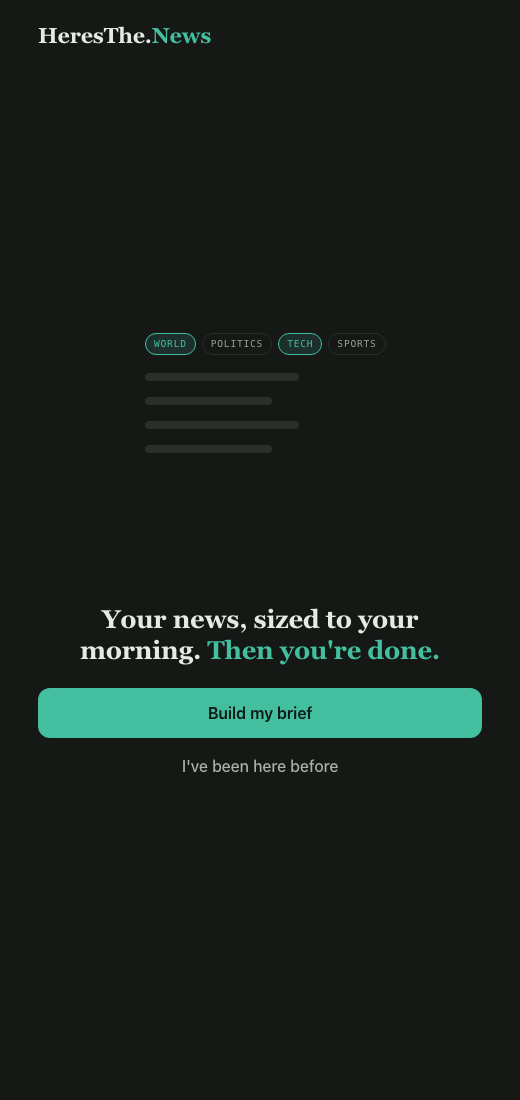
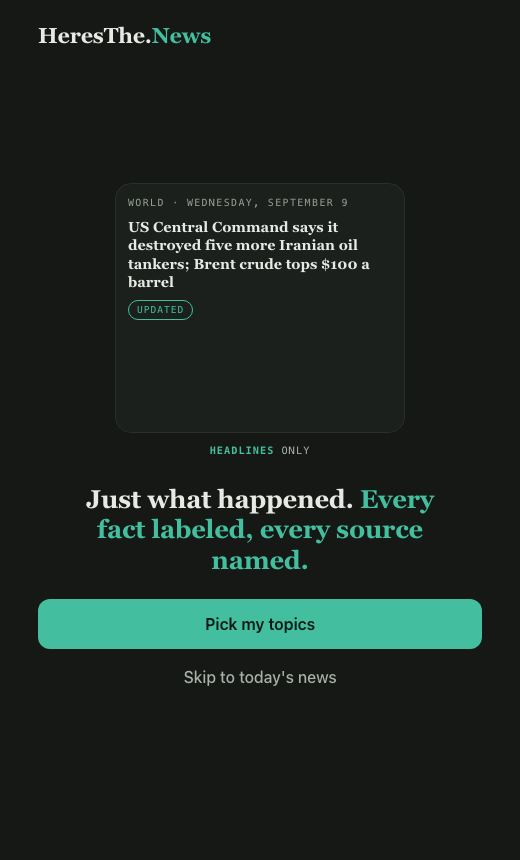
Screen 3 becomes 'How do you want your news to look?' with a live example story
Replaces the invented time picker with a real, shippable preference: a story
marked up like the live site (what changed, why it matters, labeled facts,
named sources) re-renders in place as the reader picks Headlines, Compact or
Detailed. Landing demo now cycles the same story through the three styles and
scrolls to the labeled facts and sources. Topics screen uses the site's own
wording ('What news do you want to see?', 'Show me everything').

diff --git a/style.css b/style.css
@@ -42,49 +42,18 @@ p{margin:0 0 14px;color:var(--ink-2)}
 .hero h1 em{font-style:normal;color:var(--green)}
 .actions{width:100%;display:grid;gap:6px}
 
-/* the demo: a mock screen that gets chosen, sized, checked, and finished (10s loop) */
-.demo{width:270px;font-family:var(--mono)}
-.screen{position:relative;height:236px;padding:12px;border:1px solid var(--line);border-radius:16px;background:var(--card);overflow:hidden;text-align:left}
-.demo .chips{display:flex;gap:5px;margin-bottom:7px}
-.demo .chip{position:relative;font-size:.56rem;letter-spacing:.08em;text-transform:uppercase;padding:3px 7px;border-radius:999px;border:1px solid var(--line);color:var(--ink-3);animation:10s infinite}
-.demo .chip.p1{animation-name:pick1}
-.demo .chip.p2{animation-name:pick2}
-.demo .chip.pick::after{content:"";position:absolute;inset:-4px;border-radius:999px;border:2px solid var(--green);opacity:0;animation:10s infinite}
-.demo .chip.p1::after{animation-name:tap1}
-.demo .chip.p2::after{animation-name:tap2}
-.demo .chips.time{animation:timeRow 10s infinite}
-.demo .rows{margin-top:4px}
-.demo .row{display:flex;align-items:center;gap:6px;height:22px;overflow:hidden;animation:10s infinite}
-.demo .row.d1{animation-name:drop1}
-.demo .row.d2{animation-name:drop2}
-.demo .tag{font-size:.46rem;letter-spacing:.06em;text-transform:uppercase;color:var(--ink-3);width:42px;flex:none}
-.demo .hl{font-family:var(--serif);font-size:.72rem;color:var(--ink);flex:1;white-space:nowrap;overflow:hidden;text-overflow:ellipsis}
-.demo .ok{font-size:.52rem;letter-spacing:.06em;color:var(--green);white-space:nowrap;opacity:0;max-width:0;overflow:hidden;animation:ok 10s infinite}
-.demo .stamp{position:absolute;left:50%;top:70%;transform:translate(-50%,-50%) scale(.6);opacity:0;font-size:.8rem;letter-spacing:.14em;text-transform:uppercase;color:var(--green-ink);background:var(--green);padding:8px 16px;border-radius:999px;animation:stamp 10s infinite}
-.demo .caps{position:relative;height:20px;margin-top:10px}
-.demo .cap{position:absolute;left:0;right:0;text-align:center;font-size:.64rem;letter-spacing:.1em;text-transform:uppercase;color:var(--ink-2);opacity:0;animation:10s infinite}
-.demo .c1{animation-name:cap1}.demo .c2{animation-name:cap2}.demo .c3{animation-name:cap3}.demo .c4{animation-name:cap4}
-@keyframes pick1{0%,12%{border-color:var(--line);color:var(--ink-3);background:none}16%,92%{border-color:var(--green);color:var(--green);background:var(--green-tint)}97%,100%{border-color:var(--line);color:var(--ink-3);background:none}}
-@keyframes pick2{0%,34%{border-color:var(--line);color:var(--ink-3);background:none}38%,92%{border-color:var(--green);color:var(--green);background:var(--green-tint)}97%,100%{border-color:var(--line);color:var(--ink-3);background:none}}
-@keyframes tap1{0%,10%{opacity:0;transform:scale(.7)}13%{opacity:1;transform:scale(1)}20%,100%{opacity:0;transform:scale(1.4)}}
-@keyframes tap2{0%,32%{opacity:0;transform:scale(.7)}35%{opacity:1;transform:scale(1)}42%,100%{opacity:0;transform:scale(1.4)}}
-@keyframes timeRow{0%,24%{opacity:0;height:0;margin-bottom:0}30%,92%{opacity:1;height:20px;margin-bottom:7px}97%,100%{opacity:0;height:0;margin-bottom:0}}
-@keyframes drop1{0%,16%{height:22px;opacity:1}24%,92%{height:0;opacity:0}97%,100%{height:22px;opacity:1}}
-@keyframes drop2{0%,38%{height:22px;opacity:1}46%,92%{height:0;opacity:0}97%,100%{height:22px;opacity:1}}
-@keyframes ok{0%,50%{opacity:0;max-width:0}56%,92%{opacity:1;max-width:80px}97%,100%{opacity:0;max-width:0}}
-@keyframes stamp{0%,70%{opacity:0;transform:translate(-50%,-50%) scale(.6)}76%,92%{opacity:1;transform:translate(-50%,-50%) scale(1)}97%,100%{opacity:0;transform:translate(-50%,-50%) scale(.6)}}
-@keyframes cap1{0%,2%{opacity:0}5%,24%{opacity:1}28%,100%{opacity:0}}
-@keyframes cap2{0%,28%{opacity:0}31%,46%{opacity:1}50%,100%{opacity:0}}
-@keyframes cap3{0%,50%{opacity:0}53%,68%{opacity:1}72%,100%{opacity:0}}
-@keyframes cap4{0%,72%{opacity:0}75%,92%{opacity:1}96%,100%{opacity:0}}
-@media (prefers-reduced-motion:reduce){
-  .demo *{animation:none!important}
-  .demo .chip.pick{border-color:var(--green);color:var(--green);background:var(--green-tint)}
-  .demo .chips.time{opacity:1;height:20px;margin-bottom:7px}
-  .demo .row.d1,.demo .row.d2{display:none}
-  .demo .ok{opacity:1;max-width:80px}
-  .demo .cap.c3{opacity:1}
-}
+/* the demo: the real story card, cycling through the three reading styles */
+.demo{width:290px;text-align:left}
+.demo .screen{position:relative;height:250px;padding:12px 12px 0;border:1px solid var(--line);border-radius:16px;background:var(--card);overflow:hidden}
+.demo .story-card{font-size:.72rem;border:0;padding:0;margin:0;background:none;transition:transform 1.1s ease}
+.demo .scroll-1 .story-card{transform:translateY(-215px)}
+.demo .scroll-2 .story-card{transform:translateY(-395px)}
+.demo .story-card .headline{font-size:.9rem}
+.demo .story-card .impact,.demo .story-card .fact-text{font-size:.66rem}
+.demo .story-card .corr{font-size:.58rem}
+.demo .screen::after{content:"";position:absolute;left:0;right:0;bottom:0;height:40px;background:linear-gradient(to bottom,transparent,var(--card))}
+.demo .caps{height:20px;margin-top:10px;text-align:center;font-family:var(--mono);font-size:.64rem;letter-spacing:.1em;text-transform:uppercase;color:var(--ink-2)}
+.demo .caps b{color:var(--green);font-weight:600}
 
 /* ---------- topic list ---------- */
 .topics{list-style:none;margin:0 0 12px;padding:0;border:1px solid var(--line);border-radius:14px;overflow:hidden;background:var(--card)}
@@ -102,25 +71,44 @@ p{margin:0 0 14px;color:var(--ink-2)}
 .topics input:checked ~ .name{color:var(--green)}
 .sticky{position:sticky;bottom:0;padding:10px 0 4px;background:linear-gradient(to top,var(--paper) 70%,transparent)}
 
-/* ---------- time options ---------- */
-.options{display:grid;gap:8px;margin:0 0 22px}
-.opt{display:flex;align-items:center;justify-content:space-between;gap:12px;padding:13px 16px;border:1px solid var(--line);border-radius:12px;background:var(--card);cursor:pointer}
-.opt input{position:absolute;opacity:0;pointer-events:none}
-.opt .t{font-weight:600}
-.opt .cost{font-family:var(--mono);font-size:.72rem;color:var(--ink-3);letter-spacing:.06em;white-space:nowrap}
-.opt.on{border-color:var(--green);background:var(--green-tint)}
-.opt.on .t,.opt.on .cost{color:var(--green)}
 
-/* ---------- brief ---------- */
-.section{margin:18px 0 4px}
-.story{background:var(--card);border:1px solid var(--line);border-radius:12px;padding:12px 14px;margin-bottom:8px}
-.story .hd{font-family:var(--serif);font-size:1rem;line-height:1.3;margin:0 0 8px;font-weight:600;color:var(--ink)}
-.story .meta{display:flex;gap:8px;align-items:center;flex-wrap:wrap}
-.pill{font-family:var(--mono);font-size:.62rem;letter-spacing:.1em;text-transform:uppercase;padding:3px 8px;border-radius:999px;border:1px solid var(--line);color:var(--ink-2)}
-.pill.src{border-color:var(--green);color:var(--green)}
-.pill.dev{border-color:var(--gold);color:var(--gold)}
-.done-card{margin-top:24px;padding:24px 18px;border:1px dashed var(--green);border-radius:14px;text-align:center;background:var(--green-tint)}
-.done-card h2{color:var(--green);margin-bottom:4px}
-.done-card p{margin-bottom:10px}
-.readbar{position:sticky;bottom:0;margin-top:auto;background:var(--paper);border-top:1px solid var(--line);padding:10px 0 4px;font-family:var(--mono);font-size:.7rem;letter-spacing:.08em;text-transform:uppercase;color:var(--ink-2);display:flex;justify-content:space-between;align-items:center}
-.readbar b{color:var(--green);font-weight:600}
+/* ---------- the story card (mirrors the live site's markup) ---------- */
+.story-card{background:var(--card);border:1px solid var(--line);border-radius:14px;padding:16px 16px 6px;margin-bottom:12px}
+.story-card .kicker{font-family:var(--mono);font-size:.62rem;letter-spacing:.14em;text-transform:uppercase;color:var(--ink-3);margin:0 0 8px}
+.story-card .headline{font-family:var(--serif);font-size:1.15rem;line-height:1.28;font-weight:600;margin:0 0 8px;color:var(--ink)}
+.story-card .sum-meta{display:flex;gap:6px;flex-wrap:wrap;margin-bottom:10px}
+.chip{display:inline-block;font-family:var(--mono);font-size:.6rem;letter-spacing:.1em;text-transform:uppercase;padding:2px 8px;border-radius:999px;border:1px solid var(--line);color:var(--ink-2);white-space:nowrap}
+.chip-upd{border-color:var(--green);color:var(--green)}
+.chip-dev{border-color:var(--gold);color:var(--gold)}
+.status-verified{border-color:var(--green);color:var(--green)}
+.status-reported{border-color:var(--ink-3);color:var(--ink-2)}
+.status-disputed{border-color:#D07A50;color:#D07A50}
+.status-developing{border-color:var(--gold);color:var(--gold)}
+.update-note{font-size:.85rem;color:var(--ink-2);margin:0 0 10px}
+.update-note .un-k,.impact-label,.facts-head{font-family:var(--mono);font-size:.62rem;letter-spacing:.14em;text-transform:uppercase;color:var(--ink-3)}
+.update-note .un-k{margin-right:6px}
+.impact{margin:0 0 12px;color:var(--ink-2);font-size:.92rem}
+.impact-label{display:block;margin-bottom:3px}
+.facts-head{display:flex;align-items:center;gap:8px;margin:0 0 8px}
+.fcount{color:var(--ink-2);letter-spacing:.06em}
+.fcount i{font-style:normal;margin-right:3px}
+.fc-v{color:var(--green)}.fc-d{color:#D07A50}
+.facts{list-style:none;margin:0;padding:0}
+.fact{display:grid;grid-template-columns:auto 1fr;gap:8px;align-items:start;padding:8px 0;border-top:1px solid var(--line)}
+.fact .fact-text{font-size:.9rem;color:var(--ink)}
+.fact .corr{display:block;font-size:.78rem;color:var(--ink-3);margin-top:4px}
+.coverage{display:block;font-family:var(--mono);font-size:.62rem;letter-spacing:.12em;text-transform:uppercase;color:var(--green);text-decoration:none;padding:10px 0 8px}
+
+/* reading styles: what each one shows */
+.mode-headlines .update-note,.mode-headlines .impact-wrap,.mode-headlines .facts-head,.mode-headlines .facts,.mode-headlines .coverage{display:none}
+.mode-compact .update-note,.mode-compact .facts-head,.mode-compact .facts,.mode-compact .coverage{display:none}
+.mode-headlines .story-card,.mode-compact .story-card{padding-bottom:10px}
+
+/* ---------- style picker ---------- */
+.picker{position:sticky;bottom:0;margin-top:auto;padding:10px 0 4px;background:linear-gradient(to top,var(--paper) 78%,transparent)}
+.seg{display:grid;grid-template-columns:repeat(3,1fr);gap:4px;padding:4px;border:1px solid var(--line);border-radius:12px;background:var(--card);margin-bottom:8px}
+.seg label{position:relative;text-align:center;padding:9px 4px;border-radius:9px;cursor:pointer;font-weight:600;font-size:.9rem;color:var(--ink-2)}
+.seg label small{display:block;font-family:var(--mono);font-size:.58rem;letter-spacing:.08em;text-transform:uppercase;color:var(--ink-3);font-weight:400;margin-top:2px}
+.seg input{position:absolute;opacity:0;pointer-events:none}
+.seg label.on{background:var(--green-tint);color:var(--green);box-shadow:inset 0 0 0 1px var(--green)}
+.seg label.on small{color:var(--green)}

diff --git a/index.html b/index.html
@@ -14,41 +14,28 @@
 
   <main class="hero">
     <div class="demo" aria-hidden="true">
-      <div class="screen">
-        <div class="chips">
-          <span class="chip pick p1">World</span><span class="chip">Politics</span><span class="chip pick p1">Tech</span><span class="chip">Sports</span>
-        </div>
-        <div class="chips time">
-          <span class="chip">5 min</span><span class="chip pick p2">10 min</span><span class="chip">All</span>
-        </div>
-        <div class="rows">
-          <div class="row"><span class="tag">World</span><span class="hl">Ceasefire talks resume</span><span class="ok">3 sources ✓</span></div>
-          <div class="row d1"><span class="tag">Politics</span><span class="hl">House passes spending bill</span></div>
-          <div class="row"><span class="tag">Tech</span><span class="hl">Chipmaker unveils 2nm</span><span class="ok">4 sources ✓</span></div>
-          <div class="row d1"><span class="tag">Sports</span><span class="hl">Cup final goes to extra time</span></div>
-          <div class="row"><span class="tag">World</span><span class="hl">Japan quake; no tsunami</span><span class="ok">5 sources ✓</span></div>
-          <div class="row d2"><span class="tag">Tech</span><span class="hl">EU fines app store operator</span></div>
-          <div class="row d1"><span class="tag">Politics</span><span class="hl">Governor signs ballot measure</span></div>
-          <div class="row d2"><span class="tag">Tech</span><span class="hl">Satellite launch scrubbed</span></div>
-          <div class="row d1"><span class="tag">Sports</span><span class="hl">Marathon record falls in Berlin</span></div>
-        </div>
-        <div class="stamp">Done ✓</div>
-      </div>
-      <div class="caps">
-        <span class="cap c1">Pick your topics</span>
-        <span class="cap c2">Pick your time</span>
-        <span class="cap c3">Checked against 3+ sources</span>
-        <span class="cap c4">Then you're done</span>
-      </div>
+      <div class="screen mode-headlines" id="demoScreen"></div>
+      <div class="caps" id="demoCap"></div>
     </div>
 
-    <h1>Your news, sized to your morning. <em>Then you're done.</em></h1>
+    <h1>Just what happened. <em>Every fact labeled, every source named.</em></h1>
 
     <div class="actions">
       <a class="btn btn-primary" href="topics.html">Pick my topics</a>
-      <a class="btn btn-link" href="brief.html">Skip to today's news</a>
+      <a class="btn btn-link" href="style.html">Skip to today's news</a>
     </div>
   </main>
 </div>
+<script src="story.js"></script>
+<script>
+const screen = document.getElementById("demoScreen"), cap = document.getElementById("demoCap");
+screen.innerHTML = STORY_HTML;
+const PHASES = [["headlines","<b>Headlines</b> only"],["compact","<b>Compact</b> · why it matters"],["detailed scroll-1","<b>Detailed</b> · every fact labeled"],["detailed scroll-2","Every source <b>named</b>"]];
+let i = 0;
+function show(){ const [m,c] = PHASES[i]; screen.className = "screen mode-"+m; cap.innerHTML = c; i = (i+1) % PHASES.length; }
+show();
+if (!matchMedia("(prefers-reduced-motion: reduce)").matches) setInterval(show, 2600);
+else { screen.className = "screen mode-detailed scroll-1"; cap.innerHTML = "Every fact labeled, every source named"; }
+</script>
 </body>
 </html>

diff --git a/story.js b/story.js
@@ -1,0 +1,18 @@
+// The example story, marked up the same way the live site renders one.
+const STORY_HTML = `
+<article class="story-card">
+  <p class="kicker">World · Wednesday, September 9</p>
+  <h3 class="headline">US Central Command says it destroyed five more Iranian oil tankers; Brent crude tops $100 a barrel</h3>
+  <div class="sum-meta"><span class="chip chip-upd">updated</span></div>
+  <p class="update-note"><span class="un-k">What changed</span>Tankers destroyed 3 → 8; Brent crude tops $100/barrel</p>
+  <div class="impact-wrap"><p class="impact"><span class="impact-label">Why it matters</span>The number of Iranian oil tankers the US says it has destroyed rose from three last weekend to eight after Tuesday's strikes, and Brent crude crossed $100 a barrel on Wednesday for the first time since late July.</p></div>
+  <p class="facts-head">The facts <span class="fcount fc-v"><i>●</i>3 verified</span><span class="fcount"><i>○</i>1 reported</span><span class="fcount fc-d"><i>◐</i>1 disputed</span></p>
+  <ul class="facts">
+    <li class="fact"><span class="chip status-verified">verified</span><span class="fact-text">US Central Command said it destroyed five Iranian oil tankers on Tuesday, Sept. 8, four in the Gulf of Oman and one near Kharg Island, after Iran's Revolutionary Guard twice tried to hit a US Navy warship with missiles.<span class="corr">— U.S. Central Command statement (primary source), reported by UPI and CBS News.</span></span></li>
+    <li class="fact"><span class="chip status-verified">verified</span><span class="fact-text">Iran fired missiles at Muwaffaq Salti Air Base in Jordan. Jordan's military said it intercepted 18 and the other two landed in unpopulated areas, with no casualties.<span class="corr">— Jordan's military statement (primary source), reported by UPI and CBS News.</span></span></li>
+    <li class="fact"><span class="chip status-verified">verified</span><span class="fact-text">Brent crude rose above $100 a barrel on Wednesday morning, Sept. 9, the first time since late July.<span class="corr">— BBC News, CBS News and CNBC each report it independently.</span></span></li>
+    <li class="fact"><span class="chip status-reported">reported</span><span class="fact-text">Iran's Revolutionary Guard Navy warned crews of tankers near ports in Bahrain and Kuwait to leave their vessels.<span class="corr">— Single origin so far: Reuters.</span></span></li>
+    <li class="fact"><span class="chip status-disputed">disputed</span><span class="fact-text">Iran's Revolutionary Guard said its naval forces hit two US warships; CENTCOM says no US warship has been hit.<span class="corr">— Iranian state media (IRNA) vs. U.S. Central Command. Outlets disagree; both accounts shown.</span></span></li>
+  </ul>
+  <a class="coverage" href="#">Read the full coverage →</a>
+</article>`;

diff --git a/style.html b/style.html
@@ -1,0 +1,47 @@
+<!doctype html>
+<html lang="en">
+<head>
+<meta charset="utf-8">
+<meta name="viewport" content="width=device-width,initial-scale=1">
+<title>HeresThe.News — Your style</title>
+<link rel="stylesheet" href="style.css">
+</head>
+<body>
+<div class="app">
+  <header class="masthead">
+    <a class="back" href="index.html" aria-label="Back to start">&#8592;</a>
+    <a class="brand" href="index.html">HeresThe.<em>News</em></a>
+  </header>
+  <div class="progress" aria-label="Step 2 of 2"><span style="width:100%"></span></div>
+
+  <h1>How do you want your news to look?</h1>
+
+  <div id="example" class="mode-compact"></div>
+
+  <div class="picker">
+    <div class="seg" id="seg">
+      <label><input type="radio" name="mode" value="headlines">Headlines<small>Just the news</small></label>
+      <label class="on"><input type="radio" name="mode" value="compact" checked>Compact<small>+ why it matters</small></label>
+      <label><input type="radio" name="mode" value="detailed">Detailed<small>+ facts & sources</small></label>
+    </div>
+    <a class="btn btn-primary" href="https://heresthe.news" id="finish">Show my paper</a>
+    <p class="muted" style="margin:8px 0 0">Saved on this device. Change anytime.</p>
+  </div>
+</div>
+<script src="story.js"></script>
+<script>
+const ex = document.getElementById("example"), seg = document.getElementById("seg");
+ex.innerHTML = STORY_HTML;
+const saved = localStorage.getItem("htn.style");
+if (saved) { const r = seg.querySelector(`input[value="${saved}"]`); if (r) r.checked = true; }
+function apply(){
+  const m = seg.querySelector("input:checked").value;
+  ex.className = "mode-"+m;
+  seg.querySelectorAll("label").forEach(l => l.classList.toggle("on", l.querySelector("input").checked));
+  localStorage.setItem("htn.style", m);
+}
+seg.addEventListener("change", apply);
+apply();
+</script>
+</body>
+</html>

diff --git a/topics.html b/topics.html
@@ -3,7 +3,7 @@
 <head>
 <meta charset="utf-8">
 <meta name="viewport" content="width=device-width,initial-scale=1">
-<title>HeresThe.News — Topics</title>
+<title>HeresThe.News — Your topics</title>
 <link rel="stylesheet" href="style.css">
 </head>
 <body>
@@ -28,13 +28,13 @@
   </header>
   <div class="progress" aria-label="Step 1 of 2"><span style="width:50%"></span></div>
 
-  <h1>I want to read about…</h1>
+  <h1>What news do you want to see?</h1>
 
   <form id="topicsForm">
     <ul class="topics" id="topicList"></ul>
     <div class="sticky">
-      <button class="btn btn-primary" id="continueBtn" type="submit" disabled>Continue</button>
-      <p class="muted" style="margin:8px 0 0">Saved on this device. Change anytime.</p>
+      <button class="btn btn-primary" id="continueBtn" type="submit" disabled>Next</button>
+      <button class="btn btn-link" id="allBtn" type="button">Show me everything</button>
     </div>
   </form>
 </div>
@@ -55,15 +55,19 @@ const btn = document.getElementById("continueBtn");
 function refresh(){
   const n = list.querySelectorAll("input:checked").length;
   btn.disabled = n === 0;
-  btn.textContent = n === 0 ? "Pick at least one" : "Continue";
+  btn.textContent = n === 0 ? "Pick at least one" : "Next";
 }
 list.addEventListener("change", refresh);
 refresh();
 
+document.getElementById("allBtn").addEventListener("click", () => {
+  list.querySelectorAll("input").forEach(i => i.checked = true); refresh();
+  document.getElementById("topicsForm").requestSubmit();
+});
 document.getElementById("topicsForm").addEventListener("submit", e => {
   e.preventDefault();
   localStorage.setItem("htn.topics", JSON.stringify([...list.querySelectorAll("input:checked")].map(i => i.value)));
-  location.href = "brief.html";
+  location.href = "style.html";
 });
 </script>
 </body>
